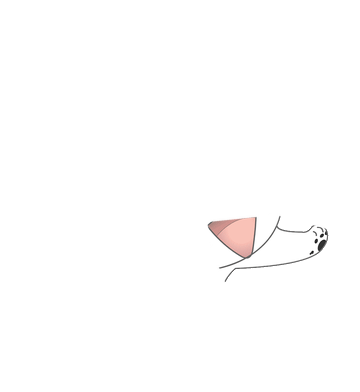
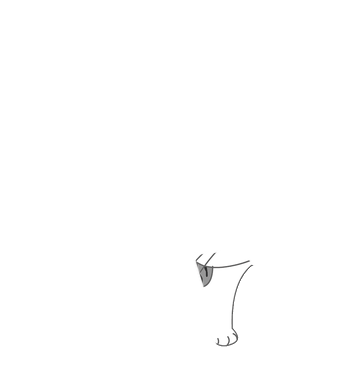
Rebuild walking neck and front-leg rig

Changed region(s): [[0.55, 0.551, 0.9167, 0.8878]]

diff --git a/Sources/TianMiao/main.swift b/Sources/TianMiao/main.swift
@@ -183,8 +183,8 @@ final class CatView: NSView {
     }
 
     private var walkingLayers: [CALayer] {
-        [walkTailLayer, walkRearLegLayer, walkHindLegLayer, walkBodyLayer,
-         walkFrontDownLegLayer, walkFrontLegLayer, walkHeadLayer]
+        [walkTailLayer, walkRearLegLayer, walkHindLegLayer, walkFrontLegLayer,
+         walkBodyLayer, walkFrontDownLegLayer, walkHeadLayer]
     }
 
     private var partLayers: [CALayer] {
@@ -231,7 +231,7 @@ final class CatView: NSView {
         configurePart(walkHindLegLayer, anchor: CGPoint(x: 0.45, y: 0.30))
         configurePart(walkBodyLayer, anchor: CGPoint(x: 0.43, y: 0.31))
         configurePart(walkFrontDownLegLayer, anchor: CGPoint(x: 0.58, y: 0.33))
-        configurePart(walkFrontLegLayer, anchor: CGPoint(x: 0.62, y: 0.36))
+        configurePart(walkFrontLegLayer, anchor: CGPoint(x: 0.62, y: 0.33))
         configurePart(walkHeadLayer, anchor: CGPoint(x: 0.56, y: 0.34))
         shadowLayer.frame = NSRect(x: bounds.width * 0.24,
                                    y: bounds.height * 0.055,
@@ -586,41 +586,51 @@ final class CatView: NSView {
         isWalking = true
         setWalkingPose(true, animated: true)
         let forever = Float.infinity
-        let duration: TimeInterval = 0.64
+        let duration: TimeInterval = 0.72
         let phases: [NSNumber] = [0, 0.2, 0.5, 0.7, 1]
 
         // Opposing diagonal pairs alternate between a planted stance and a lifted return swing.
-        add(walkFrontLegLayer, "transform.rotation.z", [-0.1, 0.015, 0.105, 0.02, -0.1], duration, phases,
+        add(walkFrontLegLayer, "transform.rotation.z", [-0.14, 0.02, 0.14, 0.025, -0.14], duration, phases,
             repeatCount: forever, key: "walkFrontRotation")
-        add(walkFrontLegLayer, "transform.translation.y", [0, 0, 0.4, 3.8, 0], duration, phases,
+        add(walkFrontLegLayer, "transform.translation.x", [1.5, 0, -1.5, 0, 1.5], duration, phases,
+            repeatCount: forever, key: "walkFrontStride")
+        add(walkFrontLegLayer, "transform.translation.y", [0, 0, 0.5, 4.2, 0], duration, phases,
             repeatCount: forever, key: "walkFrontLift")
-        add(walkRearLegLayer, "transform.rotation.z", [0.09, -0.015, -0.095, -0.015, 0.09], duration, phases,
+        add(walkRearLegLayer, "transform.rotation.z", [0.12, -0.02, -0.12, -0.02, 0.12], duration, phases,
             repeatCount: forever, key: "walkRearRotation")
-        add(walkRearLegLayer, "transform.translation.y", [0, 0, 0.4, 3.4, 0], duration, phases,
+        add(walkRearLegLayer, "transform.translation.x", [-1.2, 0, 1.2, 0, -1.2], duration, phases,
+            repeatCount: forever, key: "walkRearStride")
+        add(walkRearLegLayer, "transform.translation.y", [0, 0, 0.5, 3.8, 0], duration, phases,
             repeatCount: forever, key: "walkRearLift")
 
-        add(walkHindLegLayer, "transform.rotation.z", [-0.09, -0.015, 0.09, 0.015, -0.09], duration, phases,
+        add(walkHindLegLayer, "transform.rotation.z", [-0.12, -0.02, 0.12, 0.02, -0.12], duration, phases,
             repeatCount: forever, key: "walkHindRotation")
-        add(walkHindLegLayer, "transform.translation.y", [0.5, 3.2, 0, 0, 0.5], duration, phases,
+        add(walkHindLegLayer, "transform.translation.x", [1.1, 0, -1.1, 0, 1.1], duration, phases,
+            repeatCount: forever, key: "walkHindStride")
+        add(walkHindLegLayer, "transform.translation.y", [0.5, 3.6, 0, 0, 0.5], duration, phases,
             repeatCount: forever, key: "walkHindLift")
-        add(walkFrontDownLegLayer, "transform.rotation.z", [0.09, 0.015, -0.09, -0.015, 0.09], duration, phases,
+        add(walkFrontDownLegLayer, "transform.rotation.z", [0.13, 0.02, -0.13, -0.02, 0.13], duration, phases,
             repeatCount: forever, key: "walkFrontDownRotation")
-        add(walkFrontDownLegLayer, "transform.translation.y", [0.5, 3.5, 0, 0, 0.5], duration, phases,
+        add(walkFrontDownLegLayer, "transform.translation.x", [-1.3, 0, 1.3, 0, -1.3], duration, phases,
+            repeatCount: forever, key: "walkFrontDownStride")
+        add(walkFrontDownLegLayer, "transform.translation.y", [0.5, 4, 0, 0, 0.5], duration, phases,
             repeatCount: forever, key: "walkFrontDownLift")
 
-        add(rigLayer, "transform.translation.y", [0, 0.9, 0, 0.9, 0], duration, phases,
+        add(rigLayer, "transform.translation.y", [0, 1.4, 0, 1.4, 0], duration, phases,
             repeatCount: forever, key: "walkWeightShift")
-        add(walkBodyLayer, "transform.translation.x", [0, 0.7, 0, -0.7, 0], duration, phases,
+        add(walkBodyLayer, "transform.translation.x", [0, 1.2, 0, -1.2, 0], duration, phases,
             repeatCount: forever, key: "walkBodyWeight")
-        add(walkBodyLayer, "transform.rotation.z", [0.012, 0, -0.012, 0, 0.012], duration, phases,
+        add(walkBodyLayer, "transform.rotation.z", [0.02, 0, -0.02, 0, 0.02], duration, phases,
             repeatCount: forever, key: "walkSpine")
         add(walkBodyLayer, "transform.scale.x", [1, 1.008, 1, 1.008, 1], duration, phases,
             additive: false, repeatCount: forever, key: "walkBodyStride")
-        add(walkHeadLayer, "transform.translation.y", [0, -0.6, 0, -0.6, 0], duration, phases,
+        add(walkHeadLayer, "transform.translation.x", [0, -0.8, 0, 0.8, 0], duration, phases,
+            repeatCount: forever, key: "walkHeadCounterShift")
+        add(walkHeadLayer, "transform.translation.y", [0, -1, 0, -1, 0], duration, phases,
             repeatCount: forever, key: "walkHeadBob")
-        add(walkHeadLayer, "transform.rotation.z", [-0.01, 0.008, 0.01, -0.008, -0.01], duration, phases,
+        add(walkHeadLayer, "transform.rotation.z", [-0.018, 0.012, 0.018, -0.012, -0.018], duration, phases,
             repeatCount: forever, key: "walkHeadBalance")
-        add(walkTailLayer, "transform.rotation.z", [-0.055, 0, 0.065, 0, -0.055], duration, phases,
+        add(walkTailLayer, "transform.rotation.z", [-0.08, 0, 0.09, 0, -0.08], duration, phases,
             repeatCount: forever, key: "walkTail")
         addShadowPulse(scale: [1, 0.96, 1, 0.96, 1],
                        opacity: [0.74, 0.67, 0.74, 0.67, 0.74],
@@ -1137,7 +1147,7 @@ final class PetController: NSObject {
     }
 
     private func nextStrideMultiplier() -> CGFloat {
-        gaitPhase += (.pi * 2) / (0.64 * 60)
+        gaitPhase += (.pi * 2) / (0.72 * 60)
         if gaitPhase >= .pi * 2 {
             gaitPhase -= .pi * 2
         }

diff --git a/scripts/generate_rig_parts.py b/scripts/generate_rig_parts.py
@@ -48,18 +48,19 @@ PARTS = {
 
 WALK_PARTS = {
     "walk_tail": [(27, 115), (70, 116), (82, 199), (103, 247), (78, 281), (42, 259), (31, 210)],
-    "walk_body": [(48, 204), (103, 188), (166, 198), (220, 225), (250, 266), (232, 302),
-                  (185, 315), (122, 309), (72, 292), (49, 268)],
+    "walk_body": [(48, 204), (103, 188), (166, 198), (198, 212), (208, 235), (205, 260),
+                  (198, 288), (185, 315), (122, 309), (72, 292), (49, 268)],
     "walk_rear_leg": [(24, 269), (93, 264), (151, 282), (158, 302), (119, 319), (82, 350),
                       (46, 358), (28, 343)],
     "walk_hind_leg": [(119, 265), (171, 264), (193, 283), (190, 316), (177, 339), (157, 334),
                       (146, 311), (139, 290)],
     "walk_front_down_leg": [(178, 258), (226, 253), (244, 279), (240, 331), (226, 359),
                             (204, 356), (192, 326), (188, 291)],
-    "walk_front_leg": [(207, 222), (276, 215), (338, 232), (346, 260), (329, 279), (282, 277),
-                       (249, 289), (225, 282), (216, 260)],
+    "walk_front_leg": [(178, 258), (226, 253), (244, 279), (240, 331), (226, 359),
+                       (204, 356), (192, 326), (188, 291)],
     "walk_head": [(102, 168), (119, 129), (171, 116), (195, 92), (228, 127), (274, 141),
-                  (313, 181), (320, 226), (289, 269), (245, 287), (188, 276), (140, 250), (112, 219)],
+                  (313, 181), (305, 218), (282, 232), (250, 238), (220, 245), (188, 276),
+                  (140, 250), (112, 219)],
 }
 
 
@@ -102,6 +103,10 @@ def main() -> None:
         masked_source = walk_source.copy()
         masked_source.putalpha(mask)
         part = masked_source
+        if name == "walk_front_leg":
+            shifted = Image.new("RGBA", part.size, (0, 0, 0, 0))
+            shifted.alpha_composite(part, (16, -3))
+            part = shifted
         if name == "walk_head":
             part = part.rotate(-12, Image.Resampling.BICUBIC, center=(202, 259))
         part.save(OUTPUT / f"{name}.png", optimize=True)

diff --git a/README.md b/README.md
@@ -26,6 +26,7 @@
 - 行走采用四腿对角交替步态，脚掌落地、承重和回摆阶段会同步桌面位移速度。
 - 互动动作按身体支撑关系设计：真实闭眼、预蹲起跳、单爪梳毛与挠抓、带重心转移的打滚及闭眼睡眠。
 - 对话气泡会按内容缩放并跟随猫咪可见轮廓，行走和互动使用头、脊柱、骨盆联动以减少纸片感。
+- 行走底模已移除颈前误切入的腾跃前腿，改为肩下双前腿和更清晰的四足对角步态。
 - 轻提醒：保留桌宠作为温和提醒媒介的思路，每 45 分钟提醒休息喝水，可开启勿扰模式。
 - 专注陪伴：可以让甜喵进入角落休息，并启动 25 分钟专注计时。
 